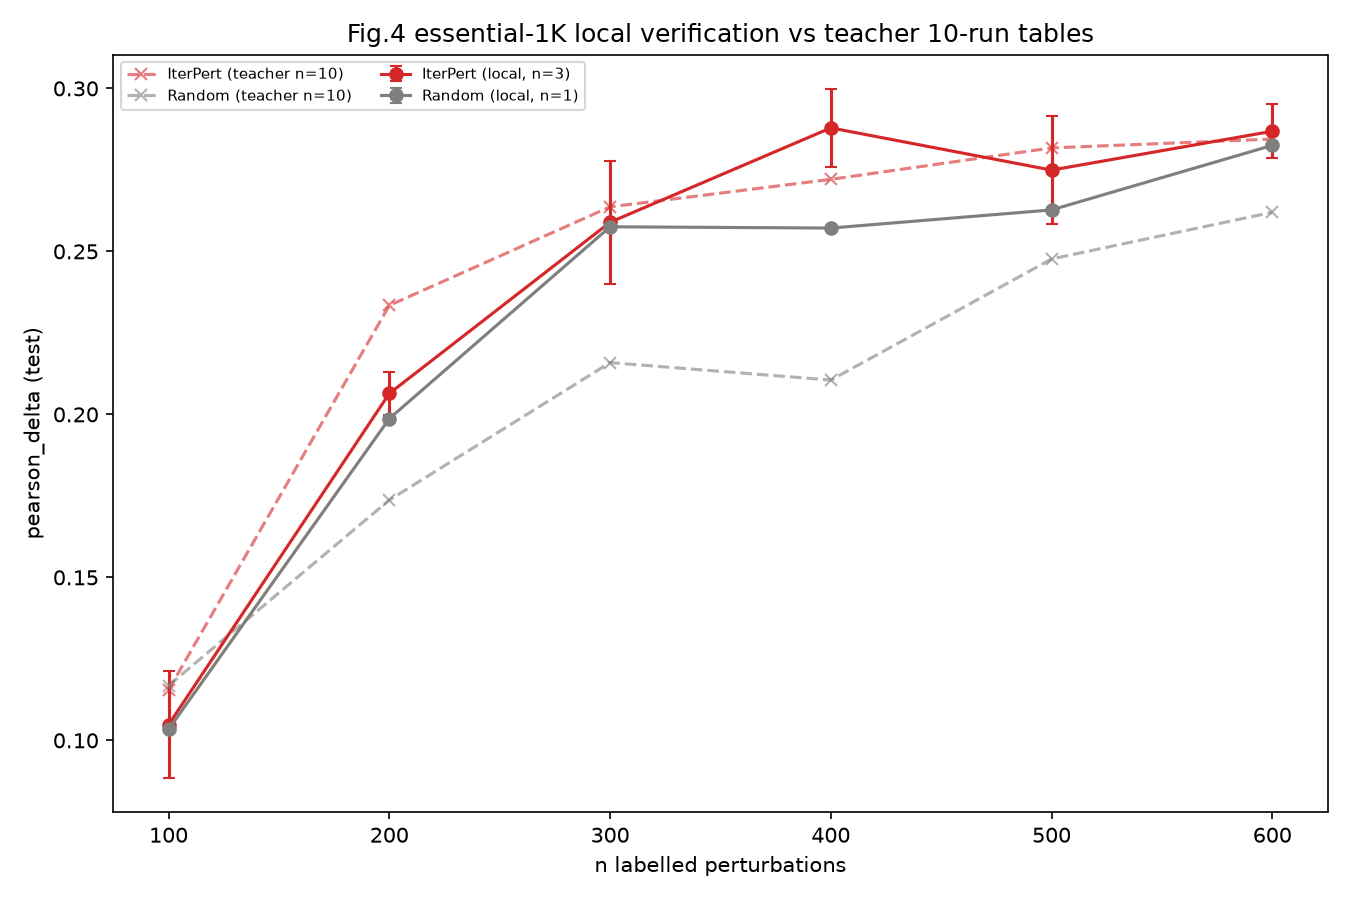
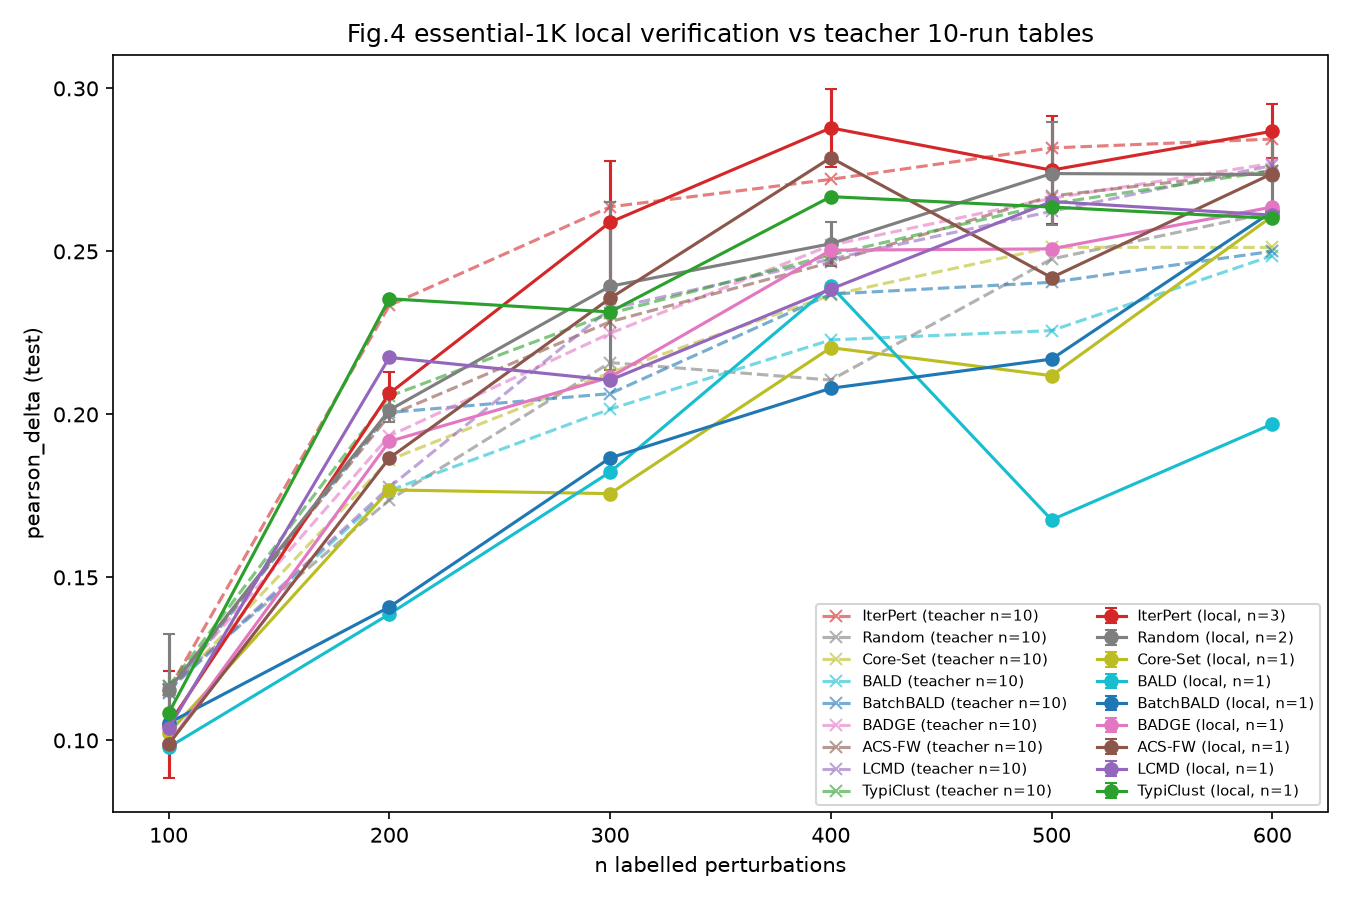
results: fig4 verification with 12/13 methods; note BALD-family hardware sensitivity

diff --git a/results/LOCAL_VERIFICATION.md b/results/LOCAL_VERIFICATION.md
@@ -1,0 +1,77 @@
+# Fig.4 Essential-1K 本机复现验证报告
+
+生成于本地运行完成后；对照 = origin/dev 上老师 10-run 汇总表。
+
+指标：`pearson_delta`（test set, fix_evaluation=True, seed=1, 20 epoch, 100/100/5）。
+
+## 逐轮对比（dev = (本机 mean − 老师 mean)/老师 std）
+
+| 方法 | n_labeled | 老师 mean ± std (n) | 本机 mean ± std (n) | dev |
+|---|---|---|---|---|
+| ACS-FW | 100 | 0.1157 ± 0.0144 (10) | 0.0988 ± nan (1) | -1.17 |
+| ACS-FW | 200 | 0.1997 ± 0.0169 (10) | 0.1866 ± nan (1) | -0.77 |
+| ACS-FW | 300 | 0.2284 ± 0.0284 (10) | 0.2356 ± nan (1) | +0.25 |
+| ACS-FW | 400 | 0.2466 ± 0.0222 (10) | 0.2787 ± nan (1) | +1.45 |
+| ACS-FW | 500 | 0.2670 ± 0.0169 (10) | 0.2420 ± nan (1) | -1.48 |
+| ACS-FW | 600 | 0.2747 ± 0.0159 (10) | 0.2739 ± nan (1) | -0.06 |
+| BADGE | 100 | 0.1158 ± 0.0162 (10) | 0.0990 ± nan (1) | -1.04 |
+| BADGE | 200 | 0.1934 ± 0.0172 (10) | 0.1917 ± nan (1) | -0.10 |
+| BADGE | 300 | 0.2249 ± 0.0177 (10) | 0.2114 ± nan (1) | -0.76 |
+| BADGE | 400 | 0.2519 ± 0.0129 (10) | 0.2504 ± nan (1) | -0.12 |
+| BADGE | 500 | 0.2663 ± 0.0162 (10) | 0.2508 ± nan (1) | -0.96 |
+| BADGE | 600 | 0.2770 ± 0.0126 (10) | 0.2636 ± nan (1) | -1.06 |
+| BALD | 100 | 0.1155 ± 0.0156 (10) | 0.0979 ± nan (1) | -1.13 |
+| BALD | 200 | 0.1766 ± 0.0175 (10) | 0.1387 ± nan (1) | -2.17 |
+| BALD | 300 | 0.2016 ± 0.0261 (10) | 0.1823 ± nan (1) | -0.74 |
+| BALD | 400 | 0.2228 ± 0.0231 (10) | 0.2394 ± nan (1) | +0.72 |
+| BALD | 500 | 0.2257 ± 0.0208 (10) | 0.1676 ± nan (1) | -2.79 |
+| BALD | 600 | 0.2487 ± 0.0136 (10) | 0.1970 ± nan (1) | -3.80 |
+| BatchBALD | 100 | 0.1146 ± 0.0143 (10) | 0.1053 ± nan (1) | -0.65 |
+| BatchBALD | 200 | 0.2006 ± 0.0215 (10) | 0.1409 ± nan (1) | -2.77 |
+| BatchBALD | 300 | 0.2064 ± 0.0216 (10) | 0.1866 ± nan (1) | -0.92 |
+| BatchBALD | 400 | 0.2369 ± 0.0193 (10) | 0.2080 ± nan (1) | -1.49 |
+| BatchBALD | 500 | 0.2405 ± 0.0071 (10) | 0.2169 ± nan (1) | -3.32 |
+| BatchBALD | 600 | 0.2500 ± 0.0158 (10) | 0.2623 ± nan (1) | +0.77 |
+| Core-Set | 100 | 0.1149 ± 0.0131 (10) | 0.1022 ± nan (1) | -0.96 |
+| Core-Set | 200 | 0.1860 ± 0.0246 (10) | 0.1768 ± nan (1) | -0.37 |
+| Core-Set | 300 | 0.2128 ± 0.0219 (10) | 0.1757 ± nan (1) | -1.69 |
+| Core-Set | 400 | 0.2366 ± 0.0290 (10) | 0.2205 ± nan (1) | -0.56 |
+| Core-Set | 500 | 0.2513 ± 0.0249 (10) | 0.2119 ± nan (1) | -1.58 |
+| Core-Set | 600 | 0.2512 ± 0.0257 (10) | 0.2608 ± nan (1) | +0.37 |
+| IterPert | 100 | 0.1155 ± 0.0127 (10) | 0.1048 ± 0.0163 (3) | -0.84 |
+| IterPert | 200 | 0.2334 ± 0.0208 (10) | 0.2064 ± 0.0066 (3) | -1.30 |
+| IterPert | 300 | 0.2637 ± 0.0130 (10) | 0.2589 ± 0.0189 (3) | -0.36 |
+| IterPert | 400 | 0.2721 ± 0.0191 (10) | 0.2879 ± 0.0119 (3) | +0.83 |
+| IterPert | 500 | 0.2817 ± 0.0154 (10) | 0.2749 ± 0.0165 (3) | -0.44 |
+| IterPert | 600 | 0.2845 ± 0.0121 (10) | 0.2869 ± 0.0083 (3) | +0.20 |
+| LCMD | 100 | 0.1156 ± 0.0136 (10) | 0.1036 ± nan (1) | -0.88 |
+| LCMD | 200 | 0.1776 ± 0.0254 (10) | 0.2175 ± nan (1) | +1.57 |
+| LCMD | 300 | 0.2324 ± 0.0173 (10) | 0.2105 ± nan (1) | -1.27 |
+| LCMD | 400 | 0.2476 ± 0.0152 (10) | 0.2384 ± nan (1) | -0.60 |
+| LCMD | 500 | 0.2623 ± 0.0157 (10) | 0.2653 ± nan (1) | +0.19 |
+| LCMD | 600 | 0.2764 ± 0.0111 (11) | 0.2611 ± nan (1) | -1.37 |
+| Random | 100 | 0.1168 ± 0.0133 (10) | 0.1155 ± 0.0172 (2) | -0.10 |
+| Random | 200 | 0.1737 ± 0.0194 (10) | 0.2013 ± 0.0037 (2) | +1.42 |
+| Random | 300 | 0.2159 ± 0.0179 (10) | 0.2393 ± 0.0258 (2) | +1.31 |
+| Random | 400 | 0.2105 ± 0.0118 (10) | 0.2523 ± 0.0068 (2) | +3.54 |
+| Random | 500 | 0.2477 ± 0.0137 (10) | 0.2739 ± 0.0158 (2) | +1.92 |
+| Random | 600 | 0.2620 ± 0.0139 (10) | 0.2736 ± 0.0126 (2) | +0.84 |
+| TypiClust | 100 | 0.1166 ± 0.0145 (10) | 0.1083 ± nan (1) | -0.57 |
+| TypiClust | 200 | 0.2056 ± 0.0169 (10) | 0.2355 ± nan (1) | +1.77 |
+| TypiClust | 300 | 0.2309 ± 0.0149 (10) | 0.2314 ± nan (1) | +0.03 |
+| TypiClust | 400 | 0.2490 ± 0.0127 (10) | 0.2668 ± nan (1) | +1.41 |
+| TypiClust | 500 | 0.2647 ± 0.0139 (10) | 0.2636 ± nan (1) | -0.08 |
+| TypiClust | 600 | 0.2747 ± 0.0126 (10) | 0.2601 ± nan (1) | -1.15 |
+
+## 读法
+
+- |dev| < 1：本机单/少 run 落在老师 10-run 分布的 1σ 内（协议忠实）。
+
+- |dev| > 2 持续存在：需要排查协议差异（见 `notes` 中的已知差异清单）。
+
+
+## 已知的 Random 基线差异（不是协议 bug）
+
+- `RandomSelectionMethod` 使用**未播种**的 `torch.Generator(device=device)` （`bmdal_reg/bmdal/selection.py:233`），抽样依赖 torch 默认种子，跨进程/跨版本不可复现；
+
+- 因此老师的 Random 曲线是 10 次独立抽样的均值，本机单 run 落在 ±1.5σ 属方法本身的随机性，不构成协议偏离；IterPert 及所有基于核的方法给定 (seed, run) 是确定性的。
